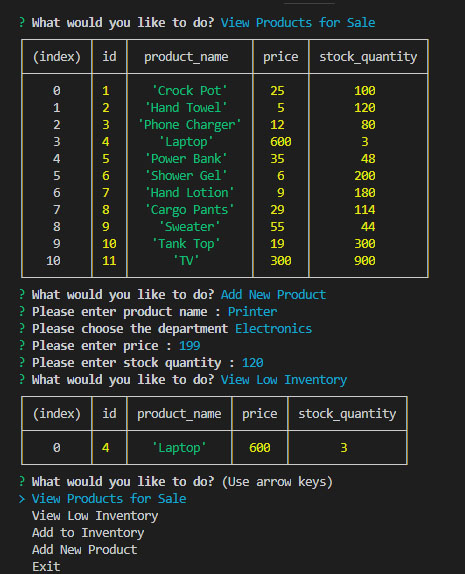
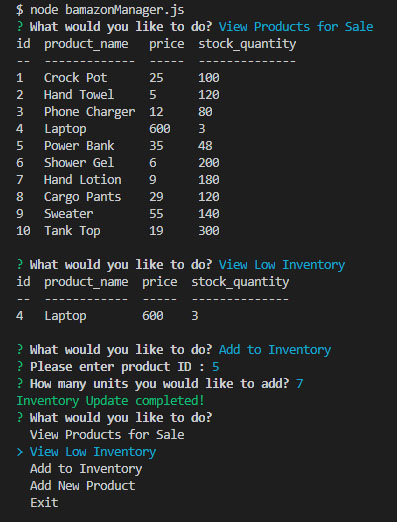
update table display and readme.

Changed region(s): [[0.0302, 0.0, 0.937, 1.0]]

diff --git a/bamazonManager.js b/bamazonManager.js
@@ -1,5 +1,8 @@
 var inquirer = require("inquirer");
 var mysql = require("mysql");
+var cTable = require("console.table");
+const TEXT_GREEN ="\x1b[32m%s\x1b[0m";
+const TEXT_RED ="\x1b[31m%s\x1b[0m";
 
 const connection = mysql.createConnection({
     host: "localhost",
@@ -28,7 +31,7 @@ function displayProducts(checklow = false) {
             if (itemList.length > 0)
                 console.table(itemList);
             else
-                console.log("No Low Inventory Products!");
+                console.log(TEXT_GREEN, "No Low Inventory Products!");
             chooseWhatToDo();
         });
 }
@@ -50,17 +53,17 @@ function addToInventory() {
             (err, queryRes) => {
                 if (err) throw err;
                 if (queryRes.length == 0) {
-                    console.log("Invalid product ID " + res.pId)
+                    console.log(TEXT_RED, "Invalid product ID " + res.pId)
                 } else if (isNaN(res.pUnits)) {
                     // enter invalid unit number.
-                    console.log("invalid unit number!");
+                    console.log(TEXT_RED, "invalid unit number!");
                 } else {
                     // enough inventory, transaction proceeds.
                     var numInStock = queryRes[0].stock_quantity + res.pUnits;
                     connection.query("UPDATE products SET stock_quantity = ? WHERE id=?", [numInStock, res.pId],
                         (err, queryRes) => {
                             if (err) throw err;
-                            console.log("Inventory Update completed!");
+                            console.log(TEXT_GREEN, "Inventory Update completed!");
                             chooseWhatToDo();
                         });
                     return;
@@ -96,12 +99,12 @@ function addNewProduct() {
         }
     ]).then(function (res) {
         if (res.pName.trim().length === 0) {
-            console.log("Please enter product name!");
+            console.log(TEXT_RED, "Please enter product name!");
         } else if (isNaN(res.pPrice)) {
             // enter invalid unit number.
-            console.log("Invalid price!");
+            console.log(TEXT_RED, "Invalid price!");
         } else if (isNaN(res.pStock)) {
-            console.log("Invalid stock number!");
+            console.log(TEXT_RED, "Invalid stock number!");
         } else {
             var deptId = 0;
             for (var i = 0; i < deptArr.length; i++) {
@@ -118,6 +121,7 @@ function addNewProduct() {
                     stock_quantity: res.pStock
                 }, (err, res) => {
                     if (err) throw err;
+                    console.log(TEXT_GREEN, "Successfully added new product!");
                     chooseWhatToDo();
                 });
             return;

diff --git a/bamazonCustomer.js b/bamazonCustomer.js
@@ -1,5 +1,9 @@
 var inquirer = require("inquirer");
 var mysql = require("mysql");
+var cTable = require("console.table");
+
+const TEXT_GREEN ="\x1b[32m%s\x1b[0m";
+const TEXT_RED ="\x1b[31m%s\x1b[0m";
 
 const connection = mysql.createConnection({
     host: "localhost",
@@ -61,12 +65,12 @@ function purchasePrompt() {
         var prodId = findProductFromTable(res.pId);
         if (prodId < 0) {
             // product not found.
-            console.log("Invalid product ID!");
+            console.log(TEXT_RED, "Invalid product ID!");
         } else if (isNaN(res.pUnits)) {
             // enter invalid unit number.
-            console.log("invalid unit number!");
+            console.log(TEXT_RED, "invalid unit number!");
         } else if (productData[prodId].stock_quantity < res.pUnits) {
-            console.log("Insufficient quantity!");
+            console.log(TEXT_RED, "Insufficient quantity!");
         } else {
             // enough inventory, transaction proceeds.
             var numLeft = productData[prodId].stock_quantity - res.pUnits;
@@ -76,7 +80,7 @@ function purchasePrompt() {
                 [numLeft, totalSales, res.pId],
                 (err, queryRes) => {
                     if (err) throw err;
-                    console.log("Order completed: total price : " + totalCost);
+                    console.log(TEXT_GREEN,"Order completed: total price : " + totalCost);
                     continuePrompt();
                 });
             return;
@@ -91,7 +95,15 @@ function displayProducts() {
         (err, itemList) => {
             if (err) throw err;
             productData = itemList;
-            console.table(itemList, ["id" ,"product_name", "price"]);
+            var displayList = [];
+            for(var i=0; i< itemList.length; i++) {
+                displayList.push( {
+                    id: itemList[i].id,
+                    product_name: itemList[i].product_name,
+                    price: itemList[i].price 
+                } );
+            }
+            console.table(displayList);
             purchasePrompt();
         });
 }

diff --git a/bamazonSupervisor.js b/bamazonSupervisor.js
@@ -1,5 +1,8 @@
 var inquirer = require("inquirer");
 var mysql = require("mysql");
+var cTable = require("console.table");
+const TEXT_GREEN ="\x1b[32m%s\x1b[0m";
+const TEXT_RED ="\x1b[31m%s\x1b[0m";
 
 const connection = mysql.createConnection({
     host: "localhost",
@@ -49,10 +52,10 @@ function createNewDepartment() {
 
     ]).then(function (res) {
         if (res.pName.trim().length === 0) {
-            console.log("Please enter department name!");
+            console.log(TEXT_RED, "Please enter department name!");
         } else if (isNaN(res.pCost)) {
             // enter invalid unit number.
-            console.log("Invalid over head costs!");
+            console.log(TEXT_RED, "Invalid over head costs!");
         } else {
             var query = connection.query("INSERT INTO departments SET ?",
                 {
@@ -60,6 +63,7 @@ function createNewDepartment() {
                     over_head_costs: res.pCost,
                 }, (err, res) => {
                     if (err) throw err;
+                    console.log(TEXT_GREEN, "Successfully created new department!");
                     chooseWhatToDo();
                 });
             return;

diff --git a/README.md b/README.md
@@ -29,7 +29,7 @@ This is a node.js database application.   The idea is to create an Amazon-like s
     3. After the task is done, user will be able to choose what to do again.
     ![Image of supervisor](images/supervisor.jpg)
 
-    [VDO Demonstration](https://www.youtube.com/embed/bpGFsRDWqgE)
+    [VDO Demonstration](https://www.youtube.com/embed/-MbzKhiinLs)
 
 ---
 
